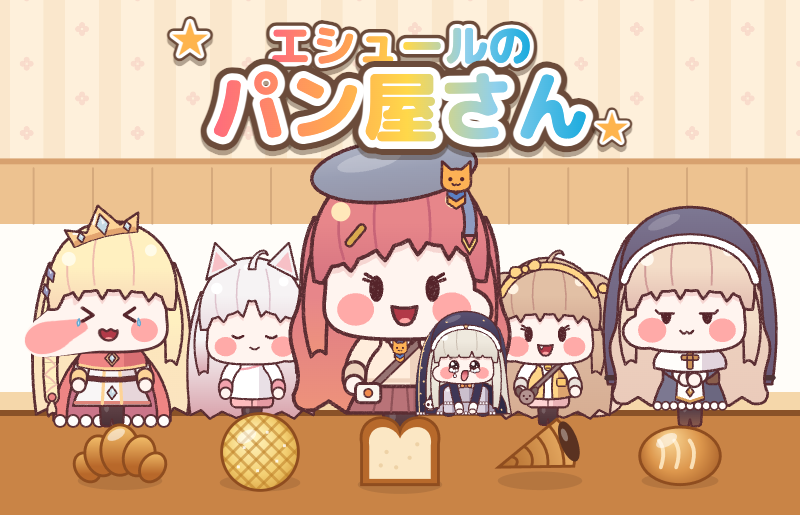
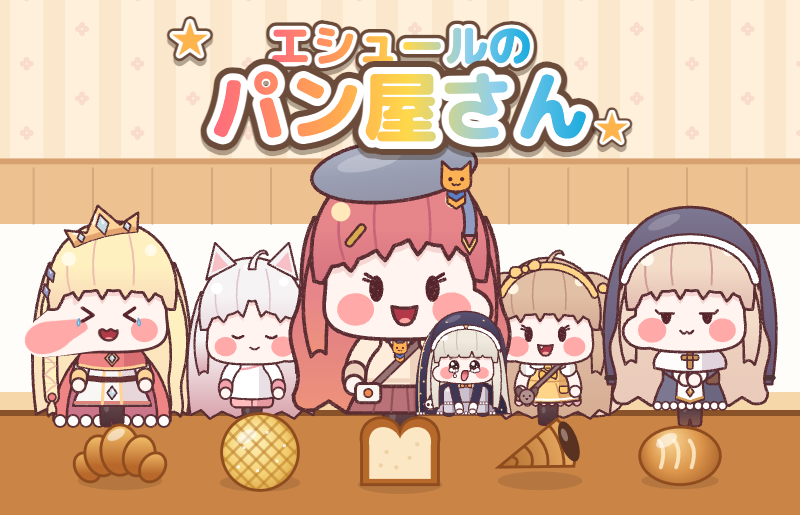
設計書にブルミの新しい姿・エルフィンの髪・バターのワンピース・つねられたスピキを書き足し、掲載用サムネイルを今の絵で描き直す

Changed region(s): [[0.1875, 0.5592, 0.25, 0.8078], [0.625, 0.7146, 0.75, 0.8078]]

diff --git a/docs/design.md b/docs/design.md
@@ -280,8 +280,9 @@
 - 開店 12〜20 秒後に最初、その後は帰ってから 16〜28 秒おきに、左右どちらかの窓へ。0.45 秒で飛びついて 4.5 秒張り付き、0.5 秒で帰る。最後の 1.2 秒は「> <」の顔でずり落ちかける。
 - 張り付いている間に窓をタップ（キー `B`）すると 150 G（売上の内訳「ブルミ」。ネルの ×1.2 はかけない）。リザルトに回数を出す。
 - フィーバー中・閉店 1 秒前からは来ない（エンドレスは除く）。客・注文の乱数とは別の乱数で決めるので、来ても来なくても接客の流れは変わらない。
-- 初めて来た時だけ、窓の上に「タップで +150 G」の吹き出し（客と注文には重ねない）。
-- 見た目は原作の設定（小さな丸いもち・金髪・レンギョウの髪飾り・オリーブ色の服）から描いたオリジナル。
+- 初めて来た時だけ、窓の横桟の下に「タップで +150 G」の吹き出し（ブルミ・客・注文には重ねない）。
+- 窓の左上のガラスに、両手を顔の横に上げてへばりつく（下半身は横桟に隠れる。ガチャ画面で窓に張り付く場面のイメージ）。張り付いた瞬間は指を開いた手のひらをガラスに押しつける。
+- 見た目は原作の特徴（金髪のボブに毛先がオレンジの低いツインテール・頭の双葉・白い花の髪飾り・白い丸い目・うずまきのほっぺ・白いフリルのトップスにオリーブ色のロングベスト）から描いたオリジナル。
 
 ---
 
@@ -422,8 +423,8 @@
 - 向き: 歩くキャラは進行方向を向く。
 - 効果音: WebAudio 合成（素材ファイル不要）。BGM: WebAudio の簡易シーケンサで明るいループ曲。残り 10 秒でテンポアップ（エンドレスで時間が延びて 10 秒を超えると戻る）。ネル効果中は専用アレンジ、フィーバー中はさらに速いテンポ 150 で 16 分のアルペジオが駆け上がるアレンジ（フィーバー > ネル効果 > 残りわずか > ふだん の順に優先）。
 - 音量・ミュートは設定に保存。
-- 衣装は原作の SD に寄せる: 脚は暗いタイツの短い一本脚、エシュールのベレー帽とネクタイのピンは青とオレンジのリボン付きの猫の顔、ネクタイは青、ポーチは白。エルフィンのマントは髪より奥に描く。
-- 髪の揺れは頭から遠いところ（毛先・アホ毛・しょっかく）ほど大きく、後ろ髪は小さく。ほっぺが伸びるのは目の下・口の外側だけで、目・口・額はゆがめない。
+- 衣装は原作の SD に寄せる: 脚は暗いタイツの短い一本脚、エシュールのベレー帽とネクタイのピンは青とオレンジのリボン付きの猫の顔、ネクタイは青、ポーチは白。エルフィンのマントは髪より奥に描き、横の髪は三つ編み（ひし形の髪留め）側を短く、反対側を裾まで長く。バターは白い丸襟と胸のリボンの黄色い A ラインのワンピースで、裾からピンクのフリルがのぞく。
+- 髪の揺れは頭から遠いところ（毛先・アホ毛・しょっかく）ほど大きく、後ろ髪は小さく。ほっぺが伸びるのは目の下・口の外側だけで、目・口・額はゆがめない。スピキはつねられても、うるうるの涙目と泣き顔の口のまま（目はゆがめない層に描く）。
 
 ---
 
